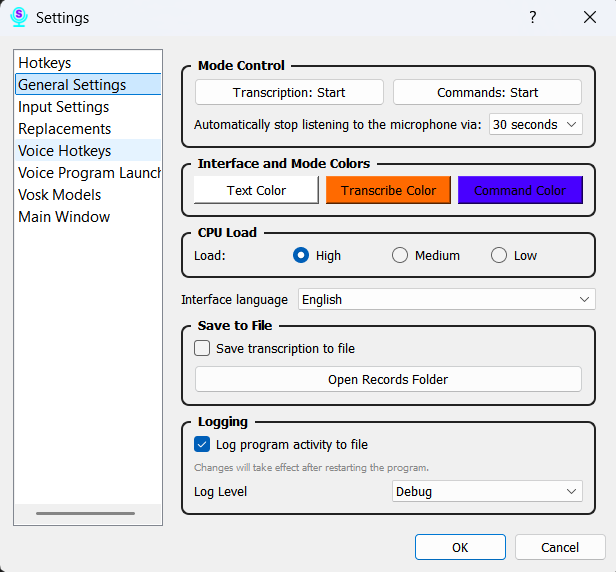
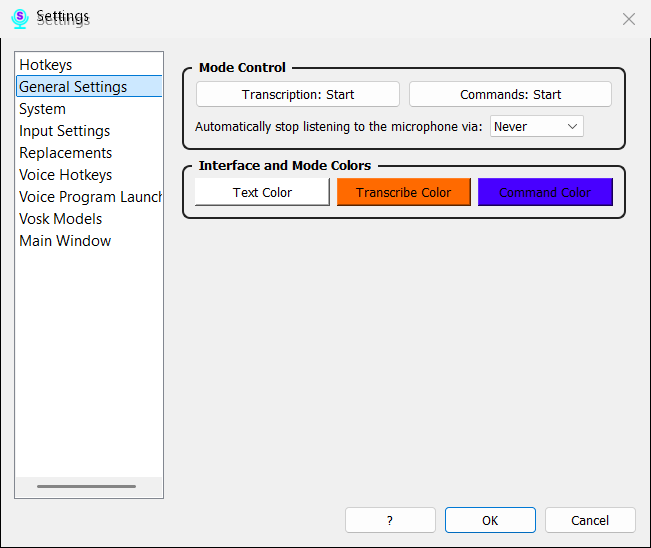
Keep models by default on uninstall and refresh settings docs
- Close a running Scribe automatically after the uninstall confirmation and abort if it cannot be stopped, so no files stay locked.
- Check the 'keep voice models' box by default, including silent uninstall.
- Update General and System screenshots and document the System tab.

Changed region(s): [[0.0, 0.0931, 1.0, 1.0], [0.0, 0.0, 0.1542, 0.062], [0.9562, 0.0, 0.987, 0.062]]

diff --git a/docs/06_settings_general.md b/docs/06_settings_general.md
@@ -4,9 +4,11 @@ The settings window has two tabs for everyday options: **General** and **System*
 
 ## General
 
+![General settings](images/general_setting_page.png)
+
 This tab contains mode control, auto-stop and colors.
 
-*   **Mode Control Buttons:** Right from this window, you can immediately activate "Transcription" or "Command" mode. This is useful for quickly testing the program's functionality without returning to the main window.
+*   **Mode Control Buttons:** Right from this window, you can immediately activate "Transcription" or "Commands" mode. This is useful for quickly testing the program's functionality without returning to the main window. The buttons show the current state and start or stop listening.
 
 *   **Automatically stop listening to the microphone via:** This feature helps save resources and prevent accidental recognition by automatically turning off the microphone after a set period of silence.
     *   **How it works:** A timer starts when listening begins. Every recognized word or phrase resets the timer. If you remain silent for longer than the specified duration, listening will stop. This works for both "Transcription" and "Command" modes.
@@ -20,16 +22,18 @@ This tab contains mode control, auto-stop and colors.
 
 ## System
 
-This tab contains performance, language, file recording, logging and startup options.
+![System settings](images/system_setting_page.png)
 
-*   **Reduce CPU Load:** Recommended for computers with lower performance. This option helps reduce processor resource consumption, which may slightly affect response time but makes the program more stable on less powerful hardware.
+This tab contains performance, interface language, file recording, logging and startup options.
 
-*   **Language:** Here you can manually change the application's interface language. Changes take effect immediately.
+*   **CPU Load:** Sets the audio block size used for recognition. Choose **High** for the fastest response (the default, uses more CPU), **Medium** for a balance, or **Low** to reduce processor load on slower computers. Lower load may slightly increase recognition latency.
 
-*   **Record to File:** Enabling this option saves the final transcription results to a text file in the records folder. Use **Open Records Folder** to find them.
+*   **Interface language:** Here you can change the application's interface language. The new language is applied when you click **OK**.
 
-*   **Logging Level:** Allows you to choose how much detailed technical information the program will write to its log files. This is useful for diagnosing issues. Different levels are available, from INFO (main events) to DEBUG (maximum detail). Logging to a file must be enabled first.
+*   **Save to File:** Tick **Save transcription to file** to save the final transcription results to a text file in the records folder. Use **Open Records Folder** to find them in Explorer.
+
+*   **Logging:** Tick **Log program activity to file** to write a technical log that helps diagnose issues. **Log Level** controls how much detail is written, from **Debug** (maximum detail) to **Critical** (errors only). Changes to logging take effect after restarting Scribe.
 
 *   **Start Scribe when I sign in:** Adds or removes Scribe from the current user's startup list. The installer offers the same option, so this checkbox always shows the real state of the operating system. It works for both the installed and the portable build.
 
-Don't forget to click the "Save" button after making changes.
+Click **OK** to save your changes. **Cancel** closes the window without saving them.

diff --git a/docs/13_faq.md b/docs/13_faq.md
@@ -43,7 +43,7 @@ The same folder holds `models/`, `records/`, `cache/` and `app.log`. At every st
 **A:** Yes, once the language model has been downloaded. Scribe downloads it automatically on first run into `models/punct/<language>/` inside the data folder (`%LOCALAPPDATA%\Scribe` for an installed build, next to the executable in portable mode). If the model is missing, basic capitalization rules still work offline.
 
 **Q: How do I uninstall the program?**
-**A:** If you used the installer, open **Settings → Apps → Installed apps**, find Scribe and choose **Uninstall**. The uninstaller removes the program and the `%LOCALAPPDATA%\Scribe` data folder; it offers to keep the downloaded voice models (1–2 GB) for a future reinstall. The portable build has no uninstaller: just delete its folder.
+**A:** If you used the installer, open **Settings → Apps → Installed apps**, find Scribe and choose **Uninstall**. If Scribe is still running, the uninstaller closes it automatically after you confirm the removal, so its locked files do not survive the uninstall. The uninstaller removes the program and the `%LOCALAPPDATA%\Scribe` data folder, but keeps the downloaded voice models (1–2 GB) by default for a future reinstall; untick the box to remove them too. The portable build has no uninstaller: just delete its folder.
 
 **Q: How do I stop Scribe from starting automatically?**
 **A:** Open **Settings → System** and clear **Start Scribe when I sign in**. The installer may have added the same startup entry, so the checkbox reads and writes the real operating-system state. No restart is needed.

diff --git a/README.md b/README.md
@@ -47,7 +47,7 @@ The feature is controlled by **Enable punctuation and capitalization** on the **
 2.  Download `ScribeSetup.exe` from the "Assets" section.
 3.  Run it. Scribe installs per user (no administrator rights) into `%LOCALAPPDATA%\Programs\Scribe` and adds a Start Menu shortcut.
 
-Settings, downloaded models and records are kept in `%LOCALAPPDATA%\Scribe`, so the program folder stays read-only for normal users. The uninstaller removes that folder; it can keep the downloaded voice models if you tick the box.
+Settings, downloaded models and records are kept in `%LOCALAPPDATA%\Scribe`, so the program folder stays read-only for normal users. The uninstaller removes that folder; it keeps the downloaded voice models by default, and unticking the box removes them too. If Scribe is running, the uninstaller closes it automatically after you confirm the removal, so no files stay locked.
 
 **Portable:**
 
